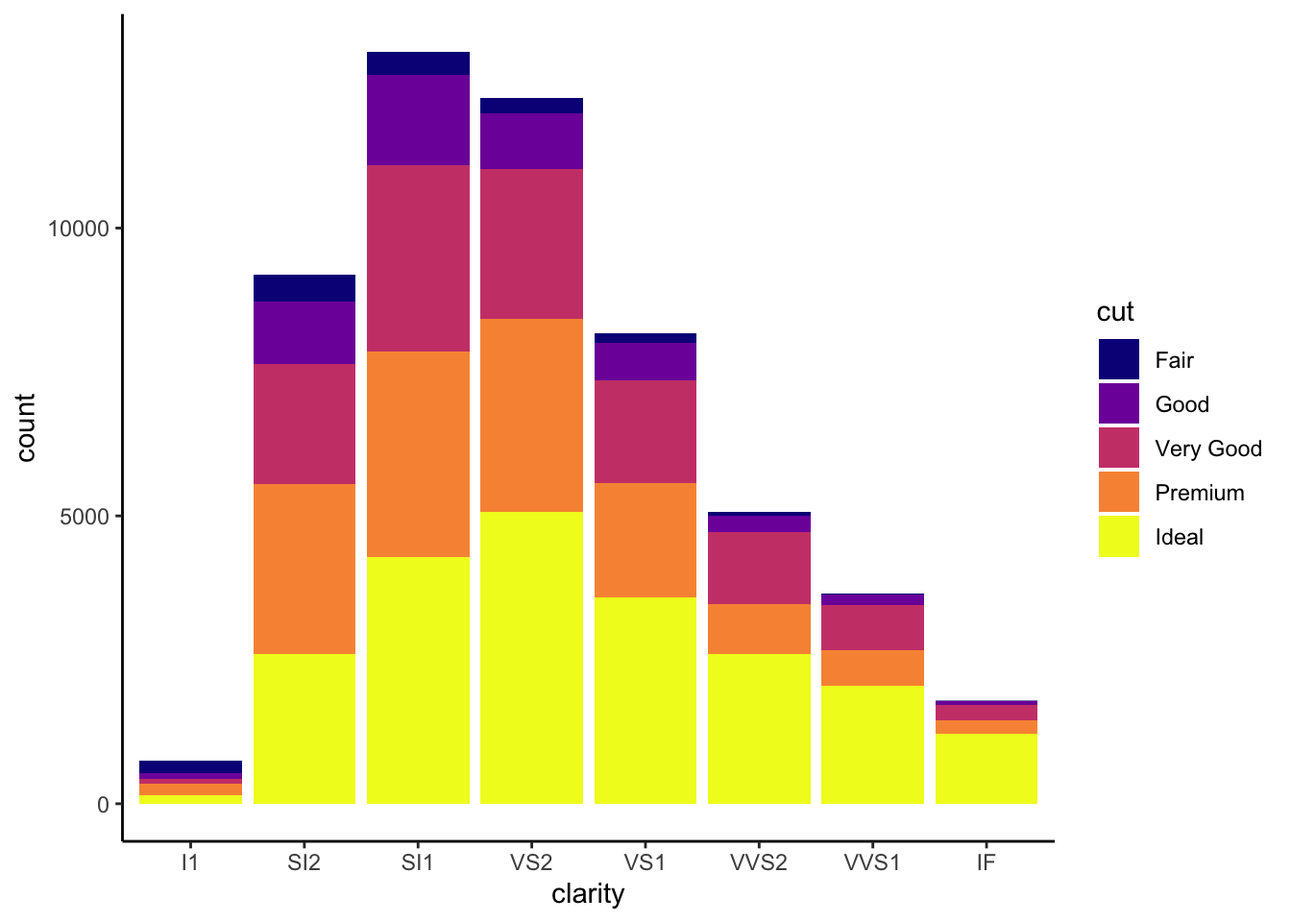
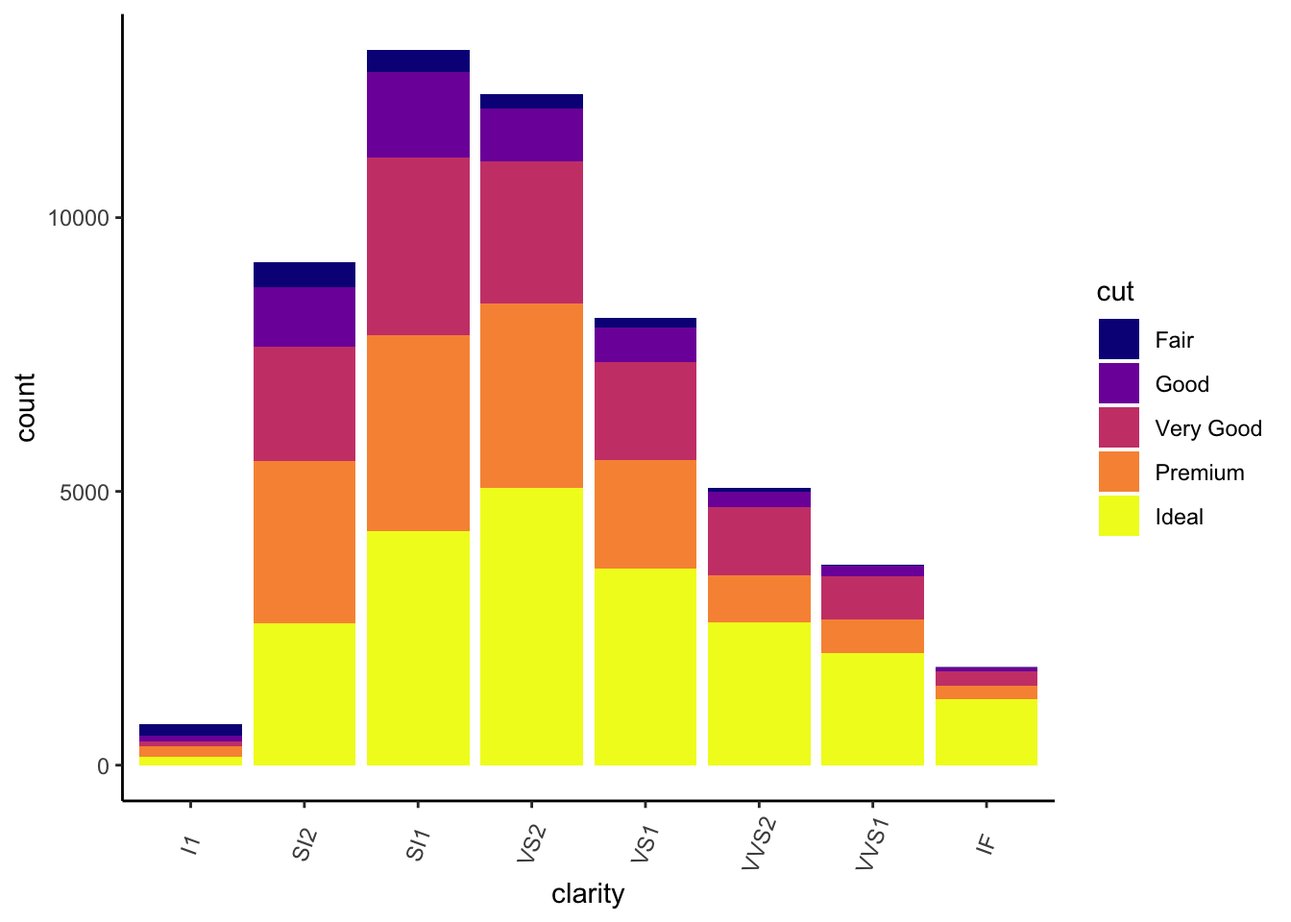
fixed plot

diff --git a/docs/lesson_wk07_data_visualization.html b/docs/lesson_wk07_data_visualization.html
@@ -1620,9 +1620,9 @@ diamond dataset, a categorical variable with 5 groups.</p>
 <pre class="r"><code>library(ggplot2)
 ggplot(diamonds, aes(x = clarity, fill = cut)) + 
   geom_bar() +
+    theme_classic() +
   theme(axis.text.x = element_text(angle=70, vjust=0.5)) +
-  scale_fill_viridis_d(option = &quot;C&quot;) +
-  theme_classic()</code></pre>
+  scale_fill_viridis_d(option = &quot;C&quot;) </code></pre>
 <p><img src="lesson_wk07_data_visualization_files/figure-html/unnamed-chunk-9-1.png" width="672" /></p>
 <pre><code>## This is an untitled chart with no subtitle or caption.
 ## It has x-axis &#39;clarity&#39; with labels I1, SI2, SI1, VS2, VS1, VVS2, VVS1 and IF.
@@ -1919,8 +1919,8 @@ plot.iris &lt;- ggplot(data=iris, aes(x=Sepal.Length, y=Petal.Length, fill=Speci
   geom_point(size=3, alpha=0.7, shape=21)
 
 plotly::ggplotly(plot.iris) #it&#39;s as simple as that! </code></pre>
-<div class="plotly html-widget html-fill-item" id="htmlwidget-ed814faff564efeff66f" style="width:672px;height:480px;"></div>
-<script type="application/json" data-for="htmlwidget-ed814faff564efeff66f">{"x":{"data":[{"x":[5.0999999999999996,4.9000000000000004,4.7000000000000002,4.5999999999999996,5,5.4000000000000004,4.5999999999999996,5,4.4000000000000004,4.9000000000000004,5.4000000000000004,4.7999999999999998,4.7999999999999998,4.2999999999999998,5.7999999999999998,5.7000000000000002,5.4000000000000004,5.0999999999999996,5.7000000000000002,5.0999999999999996,5.4000000000000004,5.0999999999999996,4.5999999999999996,5.0999999999999996,4.7999999999999998,5,5,5.2000000000000002,5.2000000000000002,4.7000000000000002,4.7999999999999998,5.4000000000000004,5.2000000000000002,5.5,4.9000000000000004,5,5.5,4.9000000000000004,4.4000000000000004,5.0999999999999996,5,4.5,4.4000000000000004,5,5.0999999999999996,4.7999999999999998,5.0999999999999996,4.5999999999999996,5.2999999999999998,5],"y":[1.3999999999999999,1.3999999999999999,1.3,1.5,1.3999999999999999,1.7,1.3999999999999999,1.5,1.3999999999999999,1.5,1.5,1.6000000000000001,1.3999999999999999,1.1000000000000001,1.2,1.5,1.3,1.3999999999999999,1.7,1.5,1.7,1.5,1,1.7,1.8999999999999999,1.6000000000000001,1.6000000000000001,1.5,1.3999999999999999,1.6000000000000001,1.6000000000000001,1.5,1.5,1.3999999999999999,1.5,1.2,1.3,1.3999999999999999,1.3,1.5,1.3,1.3,1.3,1.6000000000000001,1.8999999999999999,1.3999999999999999,1.6000000000000001,1.3999999999999999,1.5,1.3999999999999999],"text":["Sepal.Length: 5.1<br />Petal.Length: 1.4<br />Species: setosa","Sepal.Length: 4.9<br />Petal.Length: 1.4<br />Species: setosa","Sepal.Length: 4.7<br />Petal.Length: 1.3<br />Species: setosa","Sepal.Length: 4.6<br />Petal.Length: 1.5<br />Species: setosa","Sepal.Length: 5.0<br />Petal.Length: 1.4<br />Species: setosa","Sepal.Length: 5.4<br />Petal.Length: 1.7<br />Species: setosa","Sepal.Length: 4.6<br />Petal.Length: 1.4<br />Species: setosa","Sepal.Length: 5.0<br />Petal.Length: 1.5<br />Species: setosa","Sepal.Length: 4.4<br />Petal.Length: 1.4<br />Species: setosa","Sepal.Length: 4.9<br />Petal.Length: 1.5<br />Species: setosa","Sepal.Length: 5.4<br />Petal.Length: 1.5<br />Species: setosa","Sepal.Length: 4.8<br />Petal.Length: 1.6<br />Species: setosa","Sepal.Length: 4.8<br />Petal.Length: 1.4<br />Species: setosa","Sepal.Length: 4.3<br />Petal.Length: 1.1<br />Species: setosa","Sepal.Length: 5.8<br />Petal.Length: 1.2<br />Species: setosa","Sepal.Length: 5.7<br />Petal.Length: 1.5<br />Species: setosa","Sepal.Length: 5.4<br />Petal.Length: 1.3<br />Species: setosa","Sepal.Length: 5.1<br />Petal.Length: 1.4<br />Species: setosa","Sepal.Length: 5.7<br />Petal.Length: 1.7<br />Species: setosa","Sepal.Length: 5.1<br />Petal.Length: 1.5<br />Species: setosa","Sepal.Length: 5.4<br />Petal.Length: 1.7<br />Species: setosa","Sepal.Length: 5.1<br />Petal.Length: 1.5<br />Species: setosa","Sepal.Length: 4.6<br />Petal.Length: 1.0<br />Species: setosa","Sepal.Length: 5.1<br />Petal.Length: 1.7<br />Species: setosa","Sepal.Length: 4.8<br />Petal.Length: 1.9<br />Species: setosa","Sepal.Length: 5.0<br />Petal.Length: 1.6<br />Species: setosa","Sepal.Length: 5.0<br />Petal.Length: 1.6<br />Species: setosa","Sepal.Length: 5.2<br />Petal.Length: 1.5<br />Species: setosa","Sepal.Length: 5.2<br />Petal.Length: 1.4<br />Species: setosa","Sepal.Length: 4.7<br />Petal.Length: 1.6<br />Species: setosa","Sepal.Length: 4.8<br />Petal.Length: 1.6<br />Species: setosa","Sepal.Length: 5.4<br />Petal.Length: 1.5<br />Species: setosa","Sepal.Length: 5.2<br />Petal.Length: 1.5<br />Species: setosa","Sepal.Length: 5.5<br />Petal.Length: 1.4<br />Species: setosa","Sepal.Length: 4.9<br />Petal.Length: 1.5<br />Species: setosa","Sepal.Length: 5.0<br />Petal.Length: 1.2<br />Species: setosa","Sepal.Length: 5.5<br />Petal.Length: 1.3<br />Species: setosa","Sepal.Length: 4.9<br />Petal.Length: 1.4<br />Species: setosa","Sepal.Length: 4.4<br />Petal.Length: 1.3<br />Species: setosa","Sepal.Length: 5.1<br />Petal.Length: 1.5<br />Species: setosa","Sepal.Length: 5.0<br />Petal.Length: 1.3<br />Species: setosa","Sepal.Length: 4.5<br />Petal.Length: 1.3<br />Species: setosa","Sepal.Length: 4.4<br />Petal.Length: 1.3<br />Species: setosa","Sepal.Length: 5.0<br />Petal.Length: 1.6<br />Species: setosa","Sepal.Length: 5.1<br />Petal.Length: 1.9<br />Species: setosa","Sepal.Length: 4.8<br />Petal.Length: 1.4<br />Species: setosa","Sepal.Length: 5.1<br />Petal.Length: 1.6<br />Species: setosa","Sepal.Length: 4.6<br />Petal.Length: 1.4<br />Species: setosa","Sepal.Length: 5.3<br />Petal.Length: 1.5<br />Species: setosa","Sepal.Length: 5.0<br />Petal.Length: 1.4<br />Species: setosa"],"type":"scatter","mode":"markers","marker":{"autocolorscale":false,"color":"rgba(248,118,109,1)","opacity":0.69999999999999996,"size":11.338582677165356,"symbol":"circle","line":{"width":1.8897637795275593,"color":"rgba(0,0,0,1)"}},"hoveron":"points","name":"setosa","legendgroup":"setosa","showlegend":true,"xaxis":"x","yaxis":"y","hoverinfo":"text","frame":null},{"x":[7,6.4000000000000004,6.9000000000000004,5.5,6.5,5.7000000000000002,6.2999999999999998,4.9000000000000004,6.5999999999999996,5.2000000000000002,5,5.9000000000000004,6,6.0999999999999996,5.5999999999999996,6.7000000000000002,5.5999999999999996,5.7999999999999998,6.2000000000000002,5.5999999999999996,5.9000000000000004,6.0999999999999996,6.2999999999999998,6.0999999999999996,6.4000000000000004,6.5999999999999996,6.7999999999999998,6.7000000000000002,6,5.7000000000000002,5.5,5.5,5.7999999999999998,6,5.4000000000000004,6,6.7000000000000002,6.2999999999999998,5.5999999999999996,5.5,5.5,6.0999999999999996,5.7999999999999998,5,5.5999999999999996,5.7000000000000002,5.7000000000000002,6.2000000000000002,5.0999999999999996,5.7000000000000002],"y":[4.7000000000000002,4.5,4.9000000000000004,4,4.5999999999999996,4.5,4.7000000000000002,3.2999999999999998,4.5999999999999996,3.8999999999999999,3.5,4.2000000000000002,4,4.7000000000000002,3.6000000000000001,4.4000000000000004,4.5,4.0999999999999996,4.5,3.8999999999999999,4.7999999999999998,4,4.9000000000000004,4.7000000000000002,4.2999999999999998,4.4000000000000004,4.7999999999999998,5,4.5,3.5,3.7999999999999998,3.7000000000000002,3.8999999999999999,5.0999999999999996,4.5,4.5,4.7000000000000002,4.4000000000000004,4.0999999999999996,4,4.4000000000000004,4.5999999999999996,4,3.2999999999999998,4.2000000000000002,4.2000000000000002,4.2000000000000002,4.2999999999999998,3,4.0999999999999996],"text":["Sepal.Length: 7.0<br />Petal.Length: 4.7<br />Species: versicolor","Sepal.Length: 6.4<br />Petal.Length: 4.5<br />Species: versicolor","Sepal.Length: 6.9<br />Petal.Length: 4.9<br />Species: versicolor","Sepal.Length: 5.5<br />Petal.Length: 4.0<br />Species: versicolor","Sepal.Length: 6.5<br />Petal.Length: 4.6<br />Species: versicolor","Sepal.Length: 5.7<br />Petal.Length: 4.5<br />Species: versicolor","Sepal.Length: 6.3<br />Petal.Length: 4.7<br />Species: versicolor","Sepal.Length: 4.9<br />Petal.Length: 3.3<br />Species: versicolor","Sepal.Length: 6.6<br />Petal.Length: 4.6<br />Species: versicolor","Sepal.Length: 5.2<br />Petal.Length: 3.9<br />Species: versicolor","Sepal.Length: 5.0<br />Petal.Length: 3.5<br />Species: versicolor","Sepal.Length: 5.9<br />Petal.Length: 4.2<br />Species: versicolor","Sepal.Length: 6.0<br />Petal.Length: 4.0<br />Species: versicolor","Sepal.Length: 6.1<br />Petal.Length: 4.7<br />Species: versicolor","Sepal.Length: 5.6<br />Petal.Length: 3.6<br />Species: versicolor","Sepal.Length: 6.7<br />Petal.Length: 4.4<br />Species: versicolor","Sepal.Length: 5.6<br />Petal.Length: 4.5<br />Species: versicolor","Sepal.Length: 5.8<br />Petal.Length: 4.1<br />Species: versicolor","Sepal.Length: 6.2<br />Petal.Length: 4.5<br />Species: versicolor","Sepal.Length: 5.6<br />Petal.Length: 3.9<br />Species: versicolor","Sepal.Length: 5.9<br />Petal.Length: 4.8<br />Species: versicolor","Sepal.Length: 6.1<br />Petal.Length: 4.0<br />Species: versicolor","Sepal.Length: 6.3<br />Petal.Length: 4.9<br />Species: versicolor","Sepal.Length: 6.1<br />Petal.Length: 4.7<br />Species: versicolor","Sepal.Length: 6.4<br />Petal.Length: 4.3<br />Species: versicolor","Sepal.Length: 6.6<br />Petal.Length: 4.4<br />Species: versicolor","Sepal.Length: 6.8<br />Petal.Length: 4.8<br />Species: versicolor","Sepal.Length: 6.7<br />Petal.Length: 5.0<br />Species: versicolor","Sepal.Length: 6.0<br />Petal.Length: 4.5<br />Species: versicolor","Sepal.Length: 5.7<br />Petal.Length: 3.5<br />Species: versicolor","Sepal.Length: 5.5<br />Petal.Length: 3.8<br />Species: versicolor","Sepal.Length: 5.5<br />Petal.Length: 3.7<br />Species: versicolor","Sepal.Length: 5.8<br />Petal.Length: 3.9<br />Species: versicolor","Sepal.Length: 6.0<br />Petal.Length: 5.1<br />Species: versicolor","Sepal.Length: 5.4<br />Petal.Length: 4.5<br />Species: versicolor","Sepal.Length: 6.0<br />Petal.Length: 4.5<br />Species: versicolor","Sepal.Length: 6.7<br />Petal.Length: 4.7<br />Species: versicolor","Sepal.Length: 6.3<br />Petal.Length: 4.4<br />Species: versicolor","Sepal.Length: 5.6<br />Petal.Length: 4.1<br />Species: versicolor","Sepal.Length: 5.5<br />Petal.Length: 4.0<br />Species: versicolor","Sepal.Length: 5.5<br />Petal.Length: 4.4<br />Species: versicolor","Sepal.Length: 6.1<br />Petal.Length: 4.6<br />Species: versicolor","Sepal.Length: 5.8<br />Petal.Length: 4.0<br />Species: versicolor","Sepal.Length: 5.0<br />Petal.Length: 3.3<br />Species: versicolor","Sepal.Length: 5.6<br />Petal.Length: 4.2<br />Species: versicolor","Sepal.Length: 5.7<br />Petal.Length: 4.2<br />Species: versicolor","Sepal.Length: 5.7<br />Petal.Length: 4.2<br />Species: versicolor","Sepal.Length: 6.2<br />Petal.Length: 4.3<br />Species: versicolor","Sepal.Length: 5.1<br />Petal.Length: 3.0<br />Species: versicolor","Sepal.Length: 5.7<br />Petal.Length: 4.1<br />Species: versicolor"],"type":"scatter","mode":"markers","marker":{"autocolorscale":false,"color":"rgba(0,186,56,1)","opacity":0.69999999999999996,"size":11.338582677165356,"symbol":"circle","line":{"width":1.8897637795275593,"color":"rgba(0,0,0,1)"}},"hoveron":"points","name":"versicolor","legendgroup":"versicolor","showlegend":true,"xaxis":"x","yaxis":"y","hoverinfo":"text","frame":null},{"x":[6.2999999999999998,5.7999999999999998,7.0999999999999996,6.2999999999999998,6.5,7.5999999999999996,4.9000000000000004,7.2999999999999998,6.7000000000000002,7.2000000000000002,6.5,6.4000000000000004,6.7999999999999998,5.7000000000000002,5.7999999999999998,6.4000000000000004,6.5,7.7000000000000002,7.7000000000000002,6,6.9000000000000004,5.5999999999999996,7.7000000000000002,6.2999999999999998,6.7000000000000002,7.2000000000000002,6.2000000000000002,6.0999999999999996,6.4000000000000004,7.2000000000000002,7.4000000000000004,7.9000000000000004,6.4000000000000004,6.2999999999999998,6.0999999999999996,7.7000000000000002,6.2999999999999998,6.4000000000000004,6,6.9000000000000004,6.7000000000000002,6.9000000000000004,5.7999999999999998,6.7999999999999998,6.7000000000000002,6.7000000000000002,6.2999999999999998,6.5,6.2000000000000002,5.9000000000000004],"y":[6,5.0999999999999996,5.9000000000000004,5.5999999999999996,5.7999999999999998,6.5999999999999996,4.5,6.2999999999999998,5.7999999999999998,6.0999999999999996,5.0999999999999996,5.2999999999999998,5.5,5,5.0999999999999996,5.2999999999999998,5.5,6.7000000000000002,6.9000000000000004,5,5.7000000000000002,4.9000000000000004,6.7000000000000002,4.9000000000000004,5.7000000000000002,6,4.7999999999999998,4.9000000000000004,5.5999999999999996,5.7999999999999998,6.0999999999999996,6.4000000000000004,5.5999999999999996,5.0999999999999996,5.5999999999999996,6.0999999999999996,5.5999999999999996,5.5,4.7999999999999998,5.4000000000000004,5.5999999999999996,5.0999999999999996,5.0999999999999996,5.9000000000000004,5.7000000000000002,5.2000000000000002,5,5.2000000000000002,5.4000000000000004,5.0999999999999996],"text":["Sepal.Length: 6.3<br />Petal.Length: 6.0<br />Species: virginica","Sepal.Length: 5.8<br />Petal.Length: 5.1<br />Species: virginica","Sepal.Length: 7.1<br />Petal.Length: 5.9<br />Species: virginica","Sepal.Length: 6.3<br />Petal.Length: 5.6<br />Species: virginica","Sepal.Length: 6.5<br />Petal.Length: 5.8<br />Species: virginica","Sepal.Length: 7.6<br />Petal.Length: 6.6<br />Species: virginica","Sepal.Length: 4.9<br />Petal.Length: 4.5<br />Species: virginica","Sepal.Length: 7.3<br />Petal.Length: 6.3<br />Species: virginica","Sepal.Length: 6.7<br />Petal.Length: 5.8<br />Species: virginica","Sepal.Length: 7.2<br />Petal.Length: 6.1<br />Species: virginica","Sepal.Length: 6.5<br />Petal.Length: 5.1<br />Species: virginica","Sepal.Length: 6.4<br />Petal.Length: 5.3<br />Species: virginica","Sepal.Length: 6.8<br />Petal.Length: 5.5<br />Species: virginica","Sepal.Length: 5.7<br />Petal.Length: 5.0<br />Species: virginica","Sepal.Length: 5.8<br />Petal.Length: 5.1<br />Species: virginica","Sepal.Length: 6.4<br />Petal.Length: 5.3<br />Species: virginica","Sepal.Length: 6.5<br />Petal.Length: 5.5<br />Species: virginica","Sepal.Length: 7.7<br />Petal.Length: 6.7<br />Species: virginica","Sepal.Length: 7.7<br />Petal.Length: 6.9<br />Species: virginica","Sepal.Length: 6.0<br />Petal.Length: 5.0<br />Species: virginica","Sepal.Length: 6.9<br />Petal.Length: 5.7<br />Species: virginica","Sepal.Length: 5.6<br />Petal.Length: 4.9<br />Species: virginica","Sepal.Length: 7.7<br />Petal.Length: 6.7<br />Species: virginica","Sepal.Length: 6.3<br />Petal.Length: 4.9<br />Species: virginica","Sepal.Length: 6.7<br />Petal.Length: 5.7<br />Species: virginica","Sepal.Length: 7.2<br />Petal.Length: 6.0<br />Species: virginica","Sepal.Length: 6.2<br />Petal.Length: 4.8<br />Species: virginica","Sepal.Length: 6.1<br />Petal.Length: 4.9<br />Species: virginica","Sepal.Length: 6.4<br />Petal.Length: 5.6<br />Species: virginica","Sepal.Length: 7.2<br />Petal.Length: 5.8<br />Species: virginica","Sepal.Length: 7.4<br />Petal.Length: 6.1<br />Species: virginica","Sepal.Length: 7.9<br />Petal.Length: 6.4<br />Species: virginica","Sepal.Length: 6.4<br />Petal.Length: 5.6<br />Species: virginica","Sepal.Length: 6.3<br />Petal.Length: 5.1<br />Species: virginica","Sepal.Length: 6.1<br />Petal.Length: 5.6<br />Species: virginica","Sepal.Length: 7.7<br />Petal.Length: 6.1<br />Species: virginica","Sepal.Length: 6.3<br />Petal.Length: 5.6<br />Species: virginica","Sepal.Length: 6.4<br />Petal.Length: 5.5<br />Species: virginica","Sepal.Length: 6.0<br />Petal.Length: 4.8<br />Species: virginica","Sepal.Length: 6.9<br />Petal.Length: 5.4<br />Species: virginica","Sepal.Length: 6.7<br />Petal.Length: 5.6<br />Species: virginica","Sepal.Length: 6.9<br />Petal.Length: 5.1<br />Species: virginica","Sepal.Length: 5.8<br />Petal.Length: 5.1<br />Species: virginica","Sepal.Length: 6.8<br />Petal.Length: 5.9<br />Species: virginica","Sepal.Length: 6.7<br />Petal.Length: 5.7<br />Species: virginica","Sepal.Length: 6.7<br />Petal.Length: 5.2<br />Species: virginica","Sepal.Length: 6.3<br />Petal.Length: 5.0<br />Species: virginica","Sepal.Length: 6.5<br />Petal.Length: 5.2<br />Species: virginica","Sepal.Length: 6.2<br />Petal.Length: 5.4<br />Species: virginica","Sepal.Length: 5.9<br />Petal.Length: 5.1<br />Species: virginica"],"type":"scatter","mode":"markers","marker":{"autocolorscale":false,"color":"rgba(97,156,255,1)","opacity":0.69999999999999996,"size":11.338582677165356,"symbol":"circle","line":{"width":1.8897637795275593,"color":"rgba(0,0,0,1)"}},"hoveron":"points","name":"virginica","legendgroup":"virginica","showlegend":true,"xaxis":"x","yaxis":"y","hoverinfo":"text","frame":null}],"layout":{"margin":{"t":26.228310502283108,"r":7.3059360730593621,"b":40.182648401826498,"l":31.415525114155255},"plot_bgcolor":"rgba(235,235,235,1)","paper_bgcolor":"rgba(255,255,255,1)","font":{"color":"rgba(0,0,0,1)","family":"","size":14.611872146118724},"xaxis":{"domain":[0,1],"automargin":true,"type":"linear","autorange":false,"range":[4.1200000000000001,8.0800000000000001],"tickmode":"array","ticktext":["5","6","7","8"],"tickvals":[5,6,7,8],"categoryorder":"array","categoryarray":["5","6","7","8"],"nticks":null,"ticks":"outside","tickcolor":"rgba(51,51,51,1)","ticklen":3.6529680365296811,"tickwidth":0.66417600664176002,"showticklabels":true,"tickfont":{"color":"rgba(77,77,77,1)","family":"","size":11.68949771689498},"tickangle":-0,"showline":false,"linecolor":null,"linewidth":0,"showgrid":true,"gridcolor":"rgba(255,255,255,1)","gridwidth":0.66417600664176002,"zeroline":false,"anchor":"y","title":{"text":"Sepal.Length","font":{"color":"rgba(0,0,0,1)","family":"","size":14.611872146118724}},"hoverformat":".2f"},"yaxis":{"domain":[0,1],"automargin":true,"type":"linear","autorange":false,"range":[0.70499999999999996,7.1950000000000003],"tickmode":"array","ticktext":["2","4","6"],"tickvals":[2,4,6],"categoryorder":"array","categoryarray":["2","4","6"],"nticks":null,"ticks":"outside","tickcolor":"rgba(51,51,51,1)","ticklen":3.6529680365296811,"tickwidth":0.66417600664176002,"showticklabels":true,"tickfont":{"color":"rgba(77,77,77,1)","family":"","size":11.68949771689498},"tickangle":-0,"showline":false,"linecolor":null,"linewidth":0,"showgrid":true,"gridcolor":"rgba(255,255,255,1)","gridwidth":0.66417600664176002,"zeroline":false,"anchor":"x","title":{"text":"Petal.Length","font":{"color":"rgba(0,0,0,1)","family":"","size":14.611872146118724}},"hoverformat":".2f"},"shapes":[{"type":"rect","fillcolor":null,"line":{"color":null,"width":0,"linetype":[]},"yref":"paper","xref":"paper","x0":0,"x1":1,"y0":0,"y1":1}],"showlegend":true,"legend":{"bgcolor":"rgba(255,255,255,1)","bordercolor":"transparent","borderwidth":1.8897637795275593,"font":{"color":"rgba(0,0,0,1)","family":"","size":11.68949771689498},"title":{"text":"Species","font":{"color":"rgba(0,0,0,1)","family":"","size":14.611872146118724}}},"hovermode":"closest","barmode":"relative"},"config":{"doubleClick":"reset","modeBarButtonsToAdd":["hoverclosest","hovercompare"],"showSendToCloud":false},"source":"A","attrs":{"68211bab34c3":{"x":{},"y":{},"fill":{},"type":"scatter"}},"cur_data":"68211bab34c3","visdat":{"68211bab34c3":["function (y) ","x"]},"highlight":{"on":"plotly_click","persistent":false,"dynamic":false,"selectize":false,"opacityDim":0.20000000000000001,"selected":{"opacity":1},"debounce":0},"shinyEvents":["plotly_hover","plotly_click","plotly_selected","plotly_relayout","plotly_brushed","plotly_brushing","plotly_clickannotation","plotly_doubleclick","plotly_deselect","plotly_afterplot","plotly_sunburstclick"],"base_url":"https://plot.ly"},"evals":[],"jsHooks":[]}</script>
+<div class="plotly html-widget html-fill-item" id="htmlwidget-d8c143a6bbcc6c3ae270" style="width:672px;height:480px;"></div>
+<script type="application/json" data-for="htmlwidget-d8c143a6bbcc6c3ae270">{"x":{"data":[{"x":[5.0999999999999996,4.9000000000000004,4.7000000000000002,4.5999999999999996,5,5.4000000000000004,4.5999999999999996,5,4.4000000000000004,4.9000000000000004,5.4000000000000004,4.7999999999999998,4.7999999999999998,4.2999999999999998,5.7999999999999998,5.7000000000000002,5.4000000000000004,5.0999999999999996,5.7000000000000002,5.0999999999999996,5.4000000000000004,5.0999999999999996,4.5999999999999996,5.0999999999999996,4.7999999999999998,5,5,5.2000000000000002,5.2000000000000002,4.7000000000000002,4.7999999999999998,5.4000000000000004,5.2000000000000002,5.5,4.9000000000000004,5,5.5,4.9000000000000004,4.4000000000000004,5.0999999999999996,5,4.5,4.4000000000000004,5,5.0999999999999996,4.7999999999999998,5.0999999999999996,4.5999999999999996,5.2999999999999998,5],"y":[1.3999999999999999,1.3999999999999999,1.3,1.5,1.3999999999999999,1.7,1.3999999999999999,1.5,1.3999999999999999,1.5,1.5,1.6000000000000001,1.3999999999999999,1.1000000000000001,1.2,1.5,1.3,1.3999999999999999,1.7,1.5,1.7,1.5,1,1.7,1.8999999999999999,1.6000000000000001,1.6000000000000001,1.5,1.3999999999999999,1.6000000000000001,1.6000000000000001,1.5,1.5,1.3999999999999999,1.5,1.2,1.3,1.3999999999999999,1.3,1.5,1.3,1.3,1.3,1.6000000000000001,1.8999999999999999,1.3999999999999999,1.6000000000000001,1.3999999999999999,1.5,1.3999999999999999],"text":["Sepal.Length: 5.1<br />Petal.Length: 1.4<br />Species: setosa","Sepal.Length: 4.9<br />Petal.Length: 1.4<br />Species: setosa","Sepal.Length: 4.7<br />Petal.Length: 1.3<br />Species: setosa","Sepal.Length: 4.6<br />Petal.Length: 1.5<br />Species: setosa","Sepal.Length: 5.0<br />Petal.Length: 1.4<br />Species: setosa","Sepal.Length: 5.4<br />Petal.Length: 1.7<br />Species: setosa","Sepal.Length: 4.6<br />Petal.Length: 1.4<br />Species: setosa","Sepal.Length: 5.0<br />Petal.Length: 1.5<br />Species: setosa","Sepal.Length: 4.4<br />Petal.Length: 1.4<br />Species: setosa","Sepal.Length: 4.9<br />Petal.Length: 1.5<br />Species: setosa","Sepal.Length: 5.4<br />Petal.Length: 1.5<br />Species: setosa","Sepal.Length: 4.8<br />Petal.Length: 1.6<br />Species: setosa","Sepal.Length: 4.8<br />Petal.Length: 1.4<br />Species: setosa","Sepal.Length: 4.3<br />Petal.Length: 1.1<br />Species: setosa","Sepal.Length: 5.8<br />Petal.Length: 1.2<br />Species: setosa","Sepal.Length: 5.7<br />Petal.Length: 1.5<br />Species: setosa","Sepal.Length: 5.4<br />Petal.Length: 1.3<br />Species: setosa","Sepal.Length: 5.1<br />Petal.Length: 1.4<br />Species: setosa","Sepal.Length: 5.7<br />Petal.Length: 1.7<br />Species: setosa","Sepal.Length: 5.1<br />Petal.Length: 1.5<br />Species: setosa","Sepal.Length: 5.4<br />Petal.Length: 1.7<br />Species: setosa","Sepal.Length: 5.1<br />Petal.Length: 1.5<br />Species: setosa","Sepal.Length: 4.6<br />Petal.Length: 1.0<br />Species: setosa","Sepal.Length: 5.1<br />Petal.Length: 1.7<br />Species: setosa","Sepal.Length: 4.8<br />Petal.Length: 1.9<br />Species: setosa","Sepal.Length: 5.0<br />Petal.Length: 1.6<br />Species: setosa","Sepal.Length: 5.0<br />Petal.Length: 1.6<br />Species: setosa","Sepal.Length: 5.2<br />Petal.Length: 1.5<br />Species: setosa","Sepal.Length: 5.2<br />Petal.Length: 1.4<br />Species: setosa","Sepal.Length: 4.7<br />Petal.Length: 1.6<br />Species: setosa","Sepal.Length: 4.8<br />Petal.Length: 1.6<br />Species: setosa","Sepal.Length: 5.4<br />Petal.Length: 1.5<br />Species: setosa","Sepal.Length: 5.2<br />Petal.Length: 1.5<br />Species: setosa","Sepal.Length: 5.5<br />Petal.Length: 1.4<br />Species: setosa","Sepal.Length: 4.9<br />Petal.Length: 1.5<br />Species: setosa","Sepal.Length: 5.0<br />Petal.Length: 1.2<br />Species: setosa","Sepal.Length: 5.5<br />Petal.Length: 1.3<br />Species: setosa","Sepal.Length: 4.9<br />Petal.Length: 1.4<br />Species: setosa","Sepal.Length: 4.4<br />Petal.Length: 1.3<br />Species: setosa","Sepal.Length: 5.1<br />Petal.Length: 1.5<br />Species: setosa","Sepal.Length: 5.0<br />Petal.Length: 1.3<br />Species: setosa","Sepal.Length: 4.5<br />Petal.Length: 1.3<br />Species: setosa","Sepal.Length: 4.4<br />Petal.Length: 1.3<br />Species: setosa","Sepal.Length: 5.0<br />Petal.Length: 1.6<br />Species: setosa","Sepal.Length: 5.1<br />Petal.Length: 1.9<br />Species: setosa","Sepal.Length: 4.8<br />Petal.Length: 1.4<br />Species: setosa","Sepal.Length: 5.1<br />Petal.Length: 1.6<br />Species: setosa","Sepal.Length: 4.6<br />Petal.Length: 1.4<br />Species: setosa","Sepal.Length: 5.3<br />Petal.Length: 1.5<br />Species: setosa","Sepal.Length: 5.0<br />Petal.Length: 1.4<br />Species: setosa"],"type":"scatter","mode":"markers","marker":{"autocolorscale":false,"color":"rgba(248,118,109,1)","opacity":0.69999999999999996,"size":11.338582677165356,"symbol":"circle","line":{"width":1.8897637795275593,"color":"rgba(0,0,0,1)"}},"hoveron":"points","name":"setosa","legendgroup":"setosa","showlegend":true,"xaxis":"x","yaxis":"y","hoverinfo":"text","frame":null},{"x":[7,6.4000000000000004,6.9000000000000004,5.5,6.5,5.7000000000000002,6.2999999999999998,4.9000000000000004,6.5999999999999996,5.2000000000000002,5,5.9000000000000004,6,6.0999999999999996,5.5999999999999996,6.7000000000000002,5.5999999999999996,5.7999999999999998,6.2000000000000002,5.5999999999999996,5.9000000000000004,6.0999999999999996,6.2999999999999998,6.0999999999999996,6.4000000000000004,6.5999999999999996,6.7999999999999998,6.7000000000000002,6,5.7000000000000002,5.5,5.5,5.7999999999999998,6,5.4000000000000004,6,6.7000000000000002,6.2999999999999998,5.5999999999999996,5.5,5.5,6.0999999999999996,5.7999999999999998,5,5.5999999999999996,5.7000000000000002,5.7000000000000002,6.2000000000000002,5.0999999999999996,5.7000000000000002],"y":[4.7000000000000002,4.5,4.9000000000000004,4,4.5999999999999996,4.5,4.7000000000000002,3.2999999999999998,4.5999999999999996,3.8999999999999999,3.5,4.2000000000000002,4,4.7000000000000002,3.6000000000000001,4.4000000000000004,4.5,4.0999999999999996,4.5,3.8999999999999999,4.7999999999999998,4,4.9000000000000004,4.7000000000000002,4.2999999999999998,4.4000000000000004,4.7999999999999998,5,4.5,3.5,3.7999999999999998,3.7000000000000002,3.8999999999999999,5.0999999999999996,4.5,4.5,4.7000000000000002,4.4000000000000004,4.0999999999999996,4,4.4000000000000004,4.5999999999999996,4,3.2999999999999998,4.2000000000000002,4.2000000000000002,4.2000000000000002,4.2999999999999998,3,4.0999999999999996],"text":["Sepal.Length: 7.0<br />Petal.Length: 4.7<br />Species: versicolor","Sepal.Length: 6.4<br />Petal.Length: 4.5<br />Species: versicolor","Sepal.Length: 6.9<br />Petal.Length: 4.9<br />Species: versicolor","Sepal.Length: 5.5<br />Petal.Length: 4.0<br />Species: versicolor","Sepal.Length: 6.5<br />Petal.Length: 4.6<br />Species: versicolor","Sepal.Length: 5.7<br />Petal.Length: 4.5<br />Species: versicolor","Sepal.Length: 6.3<br />Petal.Length: 4.7<br />Species: versicolor","Sepal.Length: 4.9<br />Petal.Length: 3.3<br />Species: versicolor","Sepal.Length: 6.6<br />Petal.Length: 4.6<br />Species: versicolor","Sepal.Length: 5.2<br />Petal.Length: 3.9<br />Species: versicolor","Sepal.Length: 5.0<br />Petal.Length: 3.5<br />Species: versicolor","Sepal.Length: 5.9<br />Petal.Length: 4.2<br />Species: versicolor","Sepal.Length: 6.0<br />Petal.Length: 4.0<br />Species: versicolor","Sepal.Length: 6.1<br />Petal.Length: 4.7<br />Species: versicolor","Sepal.Length: 5.6<br />Petal.Length: 3.6<br />Species: versicolor","Sepal.Length: 6.7<br />Petal.Length: 4.4<br />Species: versicolor","Sepal.Length: 5.6<br />Petal.Length: 4.5<br />Species: versicolor","Sepal.Length: 5.8<br />Petal.Length: 4.1<br />Species: versicolor","Sepal.Length: 6.2<br />Petal.Length: 4.5<br />Species: versicolor","Sepal.Length: 5.6<br />Petal.Length: 3.9<br />Species: versicolor","Sepal.Length: 5.9<br />Petal.Length: 4.8<br />Species: versicolor","Sepal.Length: 6.1<br />Petal.Length: 4.0<br />Species: versicolor","Sepal.Length: 6.3<br />Petal.Length: 4.9<br />Species: versicolor","Sepal.Length: 6.1<br />Petal.Length: 4.7<br />Species: versicolor","Sepal.Length: 6.4<br />Petal.Length: 4.3<br />Species: versicolor","Sepal.Length: 6.6<br />Petal.Length: 4.4<br />Species: versicolor","Sepal.Length: 6.8<br />Petal.Length: 4.8<br />Species: versicolor","Sepal.Length: 6.7<br />Petal.Length: 5.0<br />Species: versicolor","Sepal.Length: 6.0<br />Petal.Length: 4.5<br />Species: versicolor","Sepal.Length: 5.7<br />Petal.Length: 3.5<br />Species: versicolor","Sepal.Length: 5.5<br />Petal.Length: 3.8<br />Species: versicolor","Sepal.Length: 5.5<br />Petal.Length: 3.7<br />Species: versicolor","Sepal.Length: 5.8<br />Petal.Length: 3.9<br />Species: versicolor","Sepal.Length: 6.0<br />Petal.Length: 5.1<br />Species: versicolor","Sepal.Length: 5.4<br />Petal.Length: 4.5<br />Species: versicolor","Sepal.Length: 6.0<br />Petal.Length: 4.5<br />Species: versicolor","Sepal.Length: 6.7<br />Petal.Length: 4.7<br />Species: versicolor","Sepal.Length: 6.3<br />Petal.Length: 4.4<br />Species: versicolor","Sepal.Length: 5.6<br />Petal.Length: 4.1<br />Species: versicolor","Sepal.Length: 5.5<br />Petal.Length: 4.0<br />Species: versicolor","Sepal.Length: 5.5<br />Petal.Length: 4.4<br />Species: versicolor","Sepal.Length: 6.1<br />Petal.Length: 4.6<br />Species: versicolor","Sepal.Length: 5.8<br />Petal.Length: 4.0<br />Species: versicolor","Sepal.Length: 5.0<br />Petal.Length: 3.3<br />Species: versicolor","Sepal.Length: 5.6<br />Petal.Length: 4.2<br />Species: versicolor","Sepal.Length: 5.7<br />Petal.Length: 4.2<br />Species: versicolor","Sepal.Length: 5.7<br />Petal.Length: 4.2<br />Species: versicolor","Sepal.Length: 6.2<br />Petal.Length: 4.3<br />Species: versicolor","Sepal.Length: 5.1<br />Petal.Length: 3.0<br />Species: versicolor","Sepal.Length: 5.7<br />Petal.Length: 4.1<br />Species: versicolor"],"type":"scatter","mode":"markers","marker":{"autocolorscale":false,"color":"rgba(0,186,56,1)","opacity":0.69999999999999996,"size":11.338582677165356,"symbol":"circle","line":{"width":1.8897637795275593,"color":"rgba(0,0,0,1)"}},"hoveron":"points","name":"versicolor","legendgroup":"versicolor","showlegend":true,"xaxis":"x","yaxis":"y","hoverinfo":"text","frame":null},{"x":[6.2999999999999998,5.7999999999999998,7.0999999999999996,6.2999999999999998,6.5,7.5999999999999996,4.9000000000000004,7.2999999999999998,6.7000000000000002,7.2000000000000002,6.5,6.4000000000000004,6.7999999999999998,5.7000000000000002,5.7999999999999998,6.4000000000000004,6.5,7.7000000000000002,7.7000000000000002,6,6.9000000000000004,5.5999999999999996,7.7000000000000002,6.2999999999999998,6.7000000000000002,7.2000000000000002,6.2000000000000002,6.0999999999999996,6.4000000000000004,7.2000000000000002,7.4000000000000004,7.9000000000000004,6.4000000000000004,6.2999999999999998,6.0999999999999996,7.7000000000000002,6.2999999999999998,6.4000000000000004,6,6.9000000000000004,6.7000000000000002,6.9000000000000004,5.7999999999999998,6.7999999999999998,6.7000000000000002,6.7000000000000002,6.2999999999999998,6.5,6.2000000000000002,5.9000000000000004],"y":[6,5.0999999999999996,5.9000000000000004,5.5999999999999996,5.7999999999999998,6.5999999999999996,4.5,6.2999999999999998,5.7999999999999998,6.0999999999999996,5.0999999999999996,5.2999999999999998,5.5,5,5.0999999999999996,5.2999999999999998,5.5,6.7000000000000002,6.9000000000000004,5,5.7000000000000002,4.9000000000000004,6.7000000000000002,4.9000000000000004,5.7000000000000002,6,4.7999999999999998,4.9000000000000004,5.5999999999999996,5.7999999999999998,6.0999999999999996,6.4000000000000004,5.5999999999999996,5.0999999999999996,5.5999999999999996,6.0999999999999996,5.5999999999999996,5.5,4.7999999999999998,5.4000000000000004,5.5999999999999996,5.0999999999999996,5.0999999999999996,5.9000000000000004,5.7000000000000002,5.2000000000000002,5,5.2000000000000002,5.4000000000000004,5.0999999999999996],"text":["Sepal.Length: 6.3<br />Petal.Length: 6.0<br />Species: virginica","Sepal.Length: 5.8<br />Petal.Length: 5.1<br />Species: virginica","Sepal.Length: 7.1<br />Petal.Length: 5.9<br />Species: virginica","Sepal.Length: 6.3<br />Petal.Length: 5.6<br />Species: virginica","Sepal.Length: 6.5<br />Petal.Length: 5.8<br />Species: virginica","Sepal.Length: 7.6<br />Petal.Length: 6.6<br />Species: virginica","Sepal.Length: 4.9<br />Petal.Length: 4.5<br />Species: virginica","Sepal.Length: 7.3<br />Petal.Length: 6.3<br />Species: virginica","Sepal.Length: 6.7<br />Petal.Length: 5.8<br />Species: virginica","Sepal.Length: 7.2<br />Petal.Length: 6.1<br />Species: virginica","Sepal.Length: 6.5<br />Petal.Length: 5.1<br />Species: virginica","Sepal.Length: 6.4<br />Petal.Length: 5.3<br />Species: virginica","Sepal.Length: 6.8<br />Petal.Length: 5.5<br />Species: virginica","Sepal.Length: 5.7<br />Petal.Length: 5.0<br />Species: virginica","Sepal.Length: 5.8<br />Petal.Length: 5.1<br />Species: virginica","Sepal.Length: 6.4<br />Petal.Length: 5.3<br />Species: virginica","Sepal.Length: 6.5<br />Petal.Length: 5.5<br />Species: virginica","Sepal.Length: 7.7<br />Petal.Length: 6.7<br />Species: virginica","Sepal.Length: 7.7<br />Petal.Length: 6.9<br />Species: virginica","Sepal.Length: 6.0<br />Petal.Length: 5.0<br />Species: virginica","Sepal.Length: 6.9<br />Petal.Length: 5.7<br />Species: virginica","Sepal.Length: 5.6<br />Petal.Length: 4.9<br />Species: virginica","Sepal.Length: 7.7<br />Petal.Length: 6.7<br />Species: virginica","Sepal.Length: 6.3<br />Petal.Length: 4.9<br />Species: virginica","Sepal.Length: 6.7<br />Petal.Length: 5.7<br />Species: virginica","Sepal.Length: 7.2<br />Petal.Length: 6.0<br />Species: virginica","Sepal.Length: 6.2<br />Petal.Length: 4.8<br />Species: virginica","Sepal.Length: 6.1<br />Petal.Length: 4.9<br />Species: virginica","Sepal.Length: 6.4<br />Petal.Length: 5.6<br />Species: virginica","Sepal.Length: 7.2<br />Petal.Length: 5.8<br />Species: virginica","Sepal.Length: 7.4<br />Petal.Length: 6.1<br />Species: virginica","Sepal.Length: 7.9<br />Petal.Length: 6.4<br />Species: virginica","Sepal.Length: 6.4<br />Petal.Length: 5.6<br />Species: virginica","Sepal.Length: 6.3<br />Petal.Length: 5.1<br />Species: virginica","Sepal.Length: 6.1<br />Petal.Length: 5.6<br />Species: virginica","Sepal.Length: 7.7<br />Petal.Length: 6.1<br />Species: virginica","Sepal.Length: 6.3<br />Petal.Length: 5.6<br />Species: virginica","Sepal.Length: 6.4<br />Petal.Length: 5.5<br />Species: virginica","Sepal.Length: 6.0<br />Petal.Length: 4.8<br />Species: virginica","Sepal.Length: 6.9<br />Petal.Length: 5.4<br />Species: virginica","Sepal.Length: 6.7<br />Petal.Length: 5.6<br />Species: virginica","Sepal.Length: 6.9<br />Petal.Length: 5.1<br />Species: virginica","Sepal.Length: 5.8<br />Petal.Length: 5.1<br />Species: virginica","Sepal.Length: 6.8<br />Petal.Length: 5.9<br />Species: virginica","Sepal.Length: 6.7<br />Petal.Length: 5.7<br />Species: virginica","Sepal.Length: 6.7<br />Petal.Length: 5.2<br />Species: virginica","Sepal.Length: 6.3<br />Petal.Length: 5.0<br />Species: virginica","Sepal.Length: 6.5<br />Petal.Length: 5.2<br />Species: virginica","Sepal.Length: 6.2<br />Petal.Length: 5.4<br />Species: virginica","Sepal.Length: 5.9<br />Petal.Length: 5.1<br />Species: virginica"],"type":"scatter","mode":"markers","marker":{"autocolorscale":false,"color":"rgba(97,156,255,1)","opacity":0.69999999999999996,"size":11.338582677165356,"symbol":"circle","line":{"width":1.8897637795275593,"color":"rgba(0,0,0,1)"}},"hoveron":"points","name":"virginica","legendgroup":"virginica","showlegend":true,"xaxis":"x","yaxis":"y","hoverinfo":"text","frame":null}],"layout":{"margin":{"t":26.228310502283108,"r":7.3059360730593621,"b":40.182648401826498,"l":31.415525114155255},"plot_bgcolor":"rgba(235,235,235,1)","paper_bgcolor":"rgba(255,255,255,1)","font":{"color":"rgba(0,0,0,1)","family":"","size":14.611872146118724},"xaxis":{"domain":[0,1],"automargin":true,"type":"linear","autorange":false,"range":[4.1200000000000001,8.0800000000000001],"tickmode":"array","ticktext":["5","6","7","8"],"tickvals":[5,6,7,8],"categoryorder":"array","categoryarray":["5","6","7","8"],"nticks":null,"ticks":"outside","tickcolor":"rgba(51,51,51,1)","ticklen":3.6529680365296811,"tickwidth":0.66417600664176002,"showticklabels":true,"tickfont":{"color":"rgba(77,77,77,1)","family":"","size":11.68949771689498},"tickangle":-0,"showline":false,"linecolor":null,"linewidth":0,"showgrid":true,"gridcolor":"rgba(255,255,255,1)","gridwidth":0.66417600664176002,"zeroline":false,"anchor":"y","title":{"text":"Sepal.Length","font":{"color":"rgba(0,0,0,1)","family":"","size":14.611872146118724}},"hoverformat":".2f"},"yaxis":{"domain":[0,1],"automargin":true,"type":"linear","autorange":false,"range":[0.70499999999999996,7.1950000000000003],"tickmode":"array","ticktext":["2","4","6"],"tickvals":[2,4,6],"categoryorder":"array","categoryarray":["2","4","6"],"nticks":null,"ticks":"outside","tickcolor":"rgba(51,51,51,1)","ticklen":3.6529680365296811,"tickwidth":0.66417600664176002,"showticklabels":true,"tickfont":{"color":"rgba(77,77,77,1)","family":"","size":11.68949771689498},"tickangle":-0,"showline":false,"linecolor":null,"linewidth":0,"showgrid":true,"gridcolor":"rgba(255,255,255,1)","gridwidth":0.66417600664176002,"zeroline":false,"anchor":"x","title":{"text":"Petal.Length","font":{"color":"rgba(0,0,0,1)","family":"","size":14.611872146118724}},"hoverformat":".2f"},"shapes":[{"type":"rect","fillcolor":null,"line":{"color":null,"width":0,"linetype":[]},"yref":"paper","xref":"paper","x0":0,"x1":1,"y0":0,"y1":1}],"showlegend":true,"legend":{"bgcolor":"rgba(255,255,255,1)","bordercolor":"transparent","borderwidth":1.8897637795275593,"font":{"color":"rgba(0,0,0,1)","family":"","size":11.68949771689498},"title":{"text":"Species","font":{"color":"rgba(0,0,0,1)","family":"","size":14.611872146118724}}},"hovermode":"closest","barmode":"relative"},"config":{"doubleClick":"reset","modeBarButtonsToAdd":["hoverclosest","hovercompare"],"showSendToCloud":false},"source":"A","attrs":{"d3336ef1a8f1":{"x":{},"y":{},"fill":{},"type":"scatter"}},"cur_data":"d3336ef1a8f1","visdat":{"d3336ef1a8f1":["function (y) ","x"]},"highlight":{"on":"plotly_click","persistent":false,"dynamic":false,"selectize":false,"opacityDim":0.20000000000000001,"selected":{"opacity":1},"debounce":0},"shinyEvents":["plotly_hover","plotly_click","plotly_selected","plotly_relayout","plotly_brushed","plotly_brushing","plotly_clickannotation","plotly_doubleclick","plotly_deselect","plotly_afterplot","plotly_sunburstclick"],"base_url":"https://plot.ly"},"evals":[],"jsHooks":[]}</script>
 <p>This lesson was contributed by <a
 href="https://github.com/MarthaWohlfeil">Martha Zillig</a>.</p>
 <p>This lesson is adapted from the Software Carpentry: R for
